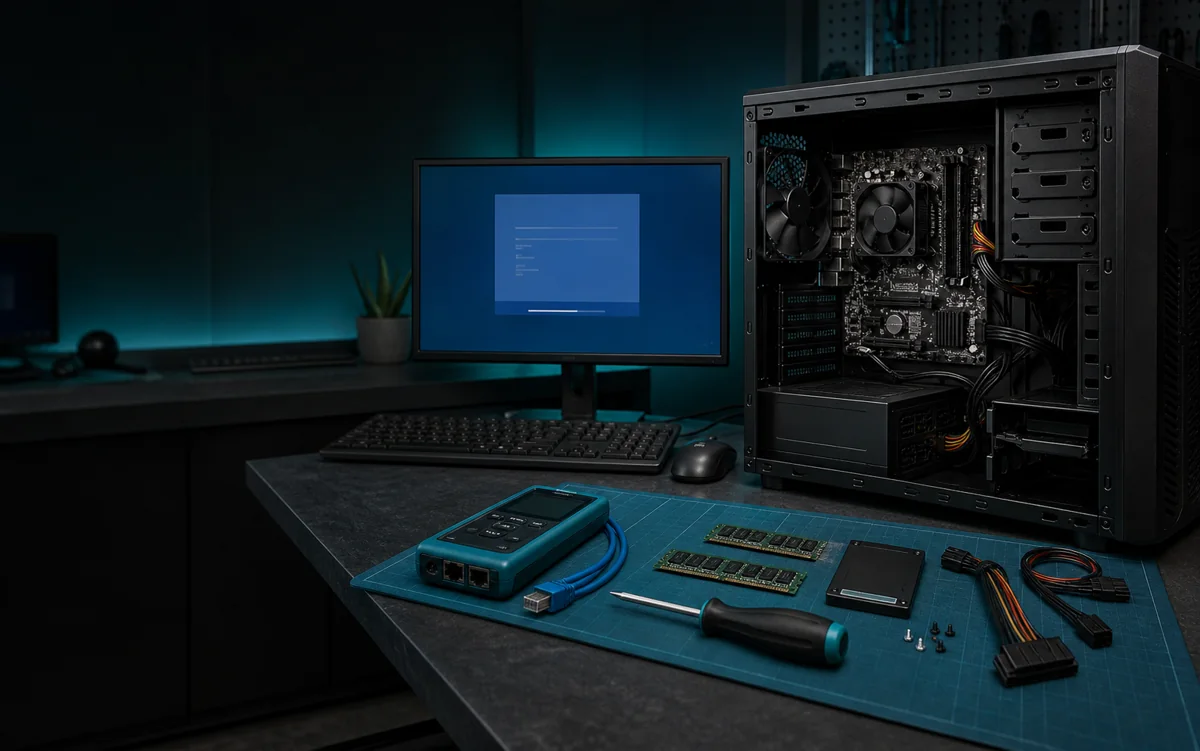
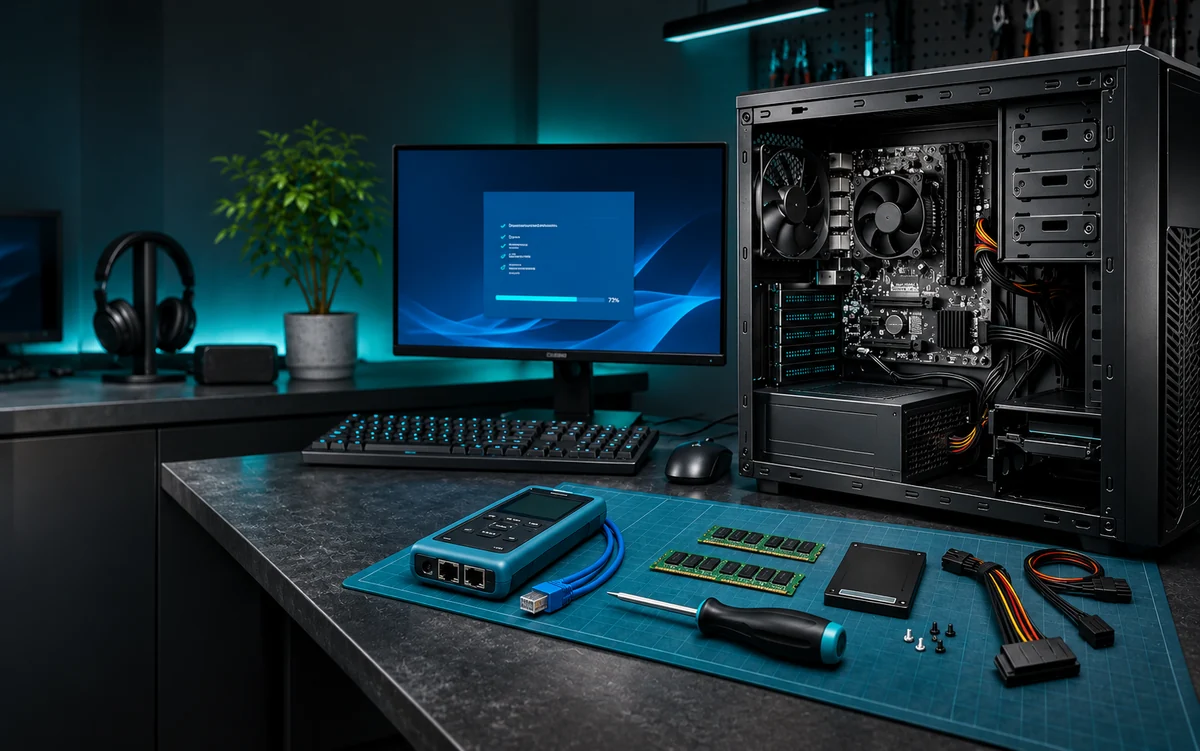
Add files via upload

diff --git a/index.html b/index.html
@@ -22,11 +22,22 @@
     />
     <meta property="og:type" content="website" />
     <meta name="twitter:card" content="summary" />
-    <link rel="icon" type="image/png" href="Logo/Main_logo.png" />
-    <link rel="stylesheet" href="styles.css?v=20261108" />
+    <link rel="icon" type="image/x-icon" href="Logo/favicon.ico" />
+    <link
+      rel="icon"
+      type="image/png"
+      sizes="32x32"
+      href="Logo/favicon-32.png"
+    />
+    <link
+      rel="apple-touch-icon"
+      sizes="180x180"
+      href="Logo/apple-touch-icon.png"
+    />
+    <link rel="stylesheet" href="styles.css?v=20261108-2" />
 
     <script src="translations.js?v=20261108" defer></script>
-    <script src="project-data.js?v=20261108" defer></script>
+    <script src="project-data.js?v=20261108-2" defer></script>
     <script src="ui.js?v=20261108" defer></script>
     <script src="script.js?v=20261108" defer></script>
   </head>
@@ -37,7 +48,14 @@
     <header class="site-header">
       <div class="header-inner wrap">
         <a class="brand" href="#hero" aria-label="Daniil Kulakov — portfolio">
-          <span class="brand-mark" aria-hidden="true">dk<span>.</span></span>
+          <img
+            class="brand-mark"
+            src="Logo/main-logo-96.webp"
+            srcset="Logo/main-logo-96.webp 1x, Logo/main-logo-192.webp 2x"
+            alt=""
+            width="42"
+            height="42"
+          />
           <span class="brand-copy"
             ><strong data-i18n="ui.name">Daniil Kulakov</strong
             ><span data-i18n="ui.role">IT Support Specialist</span></span
@@ -242,10 +260,10 @@
             </p>
             <div class="project-card-image">
               <img
-                src="assets/images/pc-support-1-640.webp"
+                src="assets/images/pc-support-1-640.webp?v=20261108-2"
                 srcset="
-                  assets/images/pc-support-1-640.webp   640w,
-                  assets/images/pc-support-1-1200.webp 1200w
+                  assets/images/pc-support-1-640.webp?v=20261108-2   640w,
+                  assets/images/pc-support-1-1200.webp?v=20261108-2 1200w
                 "
                 sizes="(max-width: 640px) 100vw, 50vw"
                 alt="Windows Deployment, Repair, and PC Build Work"

diff --git a/project.html b/project.html
@@ -19,13 +19,24 @@
     />
     <meta property="og:type" content="website" />
     <meta name="twitter:card" content="summary" />
-    <link rel="icon" type="image/png" href="Logo/Main_logo.png" />
-    <link rel="stylesheet" href="styles.css?v=20261108" />
+    <link rel="icon" type="image/x-icon" href="Logo/favicon.ico" />
+    <link
+      rel="icon"
+      type="image/png"
+      sizes="32x32"
+      href="Logo/favicon-32.png"
+    />
+    <link
+      rel="apple-touch-icon"
+      sizes="180x180"
+      href="Logo/apple-touch-icon.png"
+    />
+    <link rel="stylesheet" href="styles.css?v=20261108-2" />
     <link rel="stylesheet" href="project.css?v=20261108" />
     <script src="translations.js?v=20261108" defer></script>
-    <script src="project-data.js?v=20261108" defer></script>
+    <script src="project-data.js?v=20261108-2" defer></script>
     <script src="ui.js?v=20261108" defer></script>
-    <script src="project-view.js?v=20261108" defer></script>
+    <script src="project-view.js?v=20261108-2" defer></script>
   </head>
   <body>
     <a class="skip-link" href="#page-content" data-i18n="ui.skip"
@@ -38,7 +49,14 @@
           href="index.html"
           aria-label="Daniil Kulakov — portfolio"
         >
-          <span class="brand-mark" aria-hidden="true">dk<span>.</span></span>
+          <img
+            class="brand-mark"
+            src="Logo/main-logo-96.webp"
+            srcset="Logo/main-logo-96.webp 1x, Logo/main-logo-192.webp 2x"
+            alt=""
+            width="42"
+            height="42"
+          />
           <span class="brand-copy"
             ><strong data-i18n="ui.name">Daniil Kulakov</strong
             ><span data-i18n="ui.role">IT Support Specialist</span></span

diff --git a/project-data.js b/project-data.js
@@ -1,5 +1,6 @@
 window.projectData = {
   "pc-support": {
+    imageVersion: "20261108-2",
     tag: {
       en: "Desktop support / hardware",
       ru: "Поддержка рабочих станций / оборудование",
@@ -136,7 +137,7 @@ window.projectData = {
       th: "งานนี้ทำให้กระบวนการ troubleshooting ของผมแข็งแรงขึ้น เพิ่มความมั่นใจด้านฮาร์ดแวร์ และช่วยให้ผมจัดการปัญหาตั้งแต่รับเคสจนถึงระบบที่ใช้งานได้เสถียร นอกจากนี้ยังทำให้ผมเข้าใจมากขึ้นว่าควรสื่อสารวิธีแก้ไขอย่างชัดเจนและทำให้งานซัพพอร์ตทำซ้ำได้อย่างไร",
       vi: "Công việc giúp tôi cải thiện quy trình xử lý sự cố: từ tiếp nhận vấn đề đến khôi phục hệ thống ổn định, giải thích cách khắc phục và ghi lại hướng dẫn để tái sử dụng.",
     },
-    screenshots: ["Screenshots/PC_support/1_workbench.png"],
+    screenshots: ["Screenshots/PC_support/Pc_support.png"],
   },
   "jkt-site": {
     tag: {

diff --git a/project-view.js b/project-view.js
@@ -53,6 +53,9 @@
   let activeImage = 0;
   let zoom = 1;
   const screenshots = project.screenshots || [];
+  const imageQuery = project.imageVersion
+    ? `?v=${encodeURIComponent(project.imageVersion)}`
+    : "";
   const updateZoom = () => {
     const fitWidth = Math.min(
       stage.clientWidth,
@@ -70,7 +73,7 @@
   };
   const selectImage = (index) => {
     activeImage = (index + screenshots.length) % screenshots.length;
-    image.src = `assets/images/${projectId}-${activeImage + 1}-1200.webp`;
+    image.src = `assets/images/${projectId}-${activeImage + 1}-1200.webp${imageQuery}`;
     image.alt = `${localized(project.title)} — ${api.text("image")} ${activeImage + 1}`;
     featured.href = screenshots[activeImage];
     featured.setAttribute(
@@ -150,7 +153,7 @@
       button.type = "button";
       button.setAttribute("aria-label", `${api.text("image")} ${index + 1}`);
       const thumbnail = document.createElement("img");
-      thumbnail.src = `assets/images/${projectId}-${index + 1}-${index === 0 ? 640 : 1200}.webp`;
+      thumbnail.src = `assets/images/${projectId}-${index + 1}-${index === 0 ? 640 : 1200}.webp${imageQuery}`;
       thumbnail.alt = "";
       thumbnail.loading = "lazy";
       button.append(thumbnail);

diff --git a/styles.css b/styles.css
@@ -159,13 +159,10 @@ button:hover .arrow {
   flex-shrink: 0;
 }
 .brand-mark {
-  font-size: 34px;
-  font-weight: 650;
-  letter-spacing: -0.1em;
-  line-height: 1;
-}
-.brand-mark > span {
-  color: var(--accent);
+  width: 42px;
+  height: 42px;
+  flex-shrink: 0;
+  object-fit: contain;
 }
 .brand-copy {
   display: grid;
@@ -1121,7 +1118,8 @@ html:not(.js) .copy-email {
     gap: 10px;
   }
   .brand-mark {
-    font-size: 30px;
+    width: 36px;
+    height: 36px;
   }
   .brand-copy strong {
     font-size: 12px;

diff --git a/AUDIT.md b/AUDIT.md
@@ -55,3 +55,13 @@
 Интерактивная логика уменьшена с 70 726 до 18 829 байт (примерно на 73%). Производные WebP занимают 787 238 байт против 7 552 937 байт оригинальных PNG (примерно на 90% меньше; оригиналы также сохранены). Видео проверено до загрузки метаданных: 608×1080, длительность около 102 секунд, ошибок загрузки нет; при закрытии диалога воспроизведение приостанавливается и фокус возвращается на кнопку.
 
 Изображения — из исходной папки пользователя; сторонние фотографии, сгенерированные отзывы, клиенты и новые показатели не добавлялись. Старое изображение рабочего места сохранено как предоставленный материал; его происхождение не устанавливалось.
+
+## Обновление изображений и логотипов
+
+Новая картинка `Pc_support.png` перенесена в `Screenshots/PC_support/` и подключена вместо старого изображения. Обновлены WebP-превью 640×401 и 1200×751, карточка, миниатюра и оригинал в увеличенном просмотре. Размеры WebP — 43 540 и 117 754 байта против 2 143 455 байт исходного PNG. Старое изображение архивировано вне сайта.
+
+Из новых PNG-логотипов подготовлены прозрачные WebP для шапки (96 и 192 px), версия с надписью шириной 640 px, favicon ICO/PNG и иконка 180 px. У производных логотипов сокращены прозрачные поля; исходные PNG сохранены. Текстовая заглушка `dk.` заменена символом из нового логотипа; имя и специальность рядом по-прежнему переводятся.
+
+Версии изменённых ресурсов обновлены для обхода старого кеша. Проверены главная и PC Support на шести языках при ширинах 1440, 1024, 768, 390 и 320 px: 60 сочетаний, без выявленных переполнений, пересечений шапки и ошибок JavaScript. Все новые изображения и иконки доступны по HTTP. Визуально проверены страницы проекта на компьютере и телефоне.
+
+Резервная копия перед заменой: `C:\Users\dorel\.codex\backups\portfolio-2026-11-08-assets`.

diff --git a/README.md b/README.md
@@ -35,6 +35,8 @@ python -m http.server 4173 --bind 127.0.0.1
 - Тексты: обновите нужный язык в `translations.js`. Основные английские тексты продублированы в HTML для доступности без JavaScript; при изменениях обновляйте обе версии.
 - Проекты: редактируйте `project-data.js`. При добавлении проекта также добавьте карточку в `index.html` и переводы её текста.
 - Изображения: обновляйте оригиналы и соответствующие WebP-копии. В увеличенном просмотре используется оригинал; галерея загружает WebP.
+- Изображение PC Support: исходник находится в `Screenshots/PC_support/Pc_support.png`; превью — `assets/images/pc-support-1-640.webp` и `pc-support-1-1200.webp`. После замены обновите `imageVersion` проекта и параметр `v` у карточки в HTML, чтобы браузер не показывал старую копию из кеша.
+- Логотипы: исходные PNG сохранены в `Logo/`. В шапке используется прозрачный `main-logo-96.webp` с версией 192 px для плотных экранов; готовый логотип с надписью — `main-logo-text-640.webp`. Для вкладки подготовлены `favicon.ico` и `favicon-32.png`, для иконки на домашнем экране — `apple-touch-icon.png`.
 - Контакты и PDF: ссылки указаны в HTML; проверьте их в обоих файлах при замене.
 - Оформление: базовые цвета, размеры и отступы находятся в `:root` файла `styles.css`.
 
